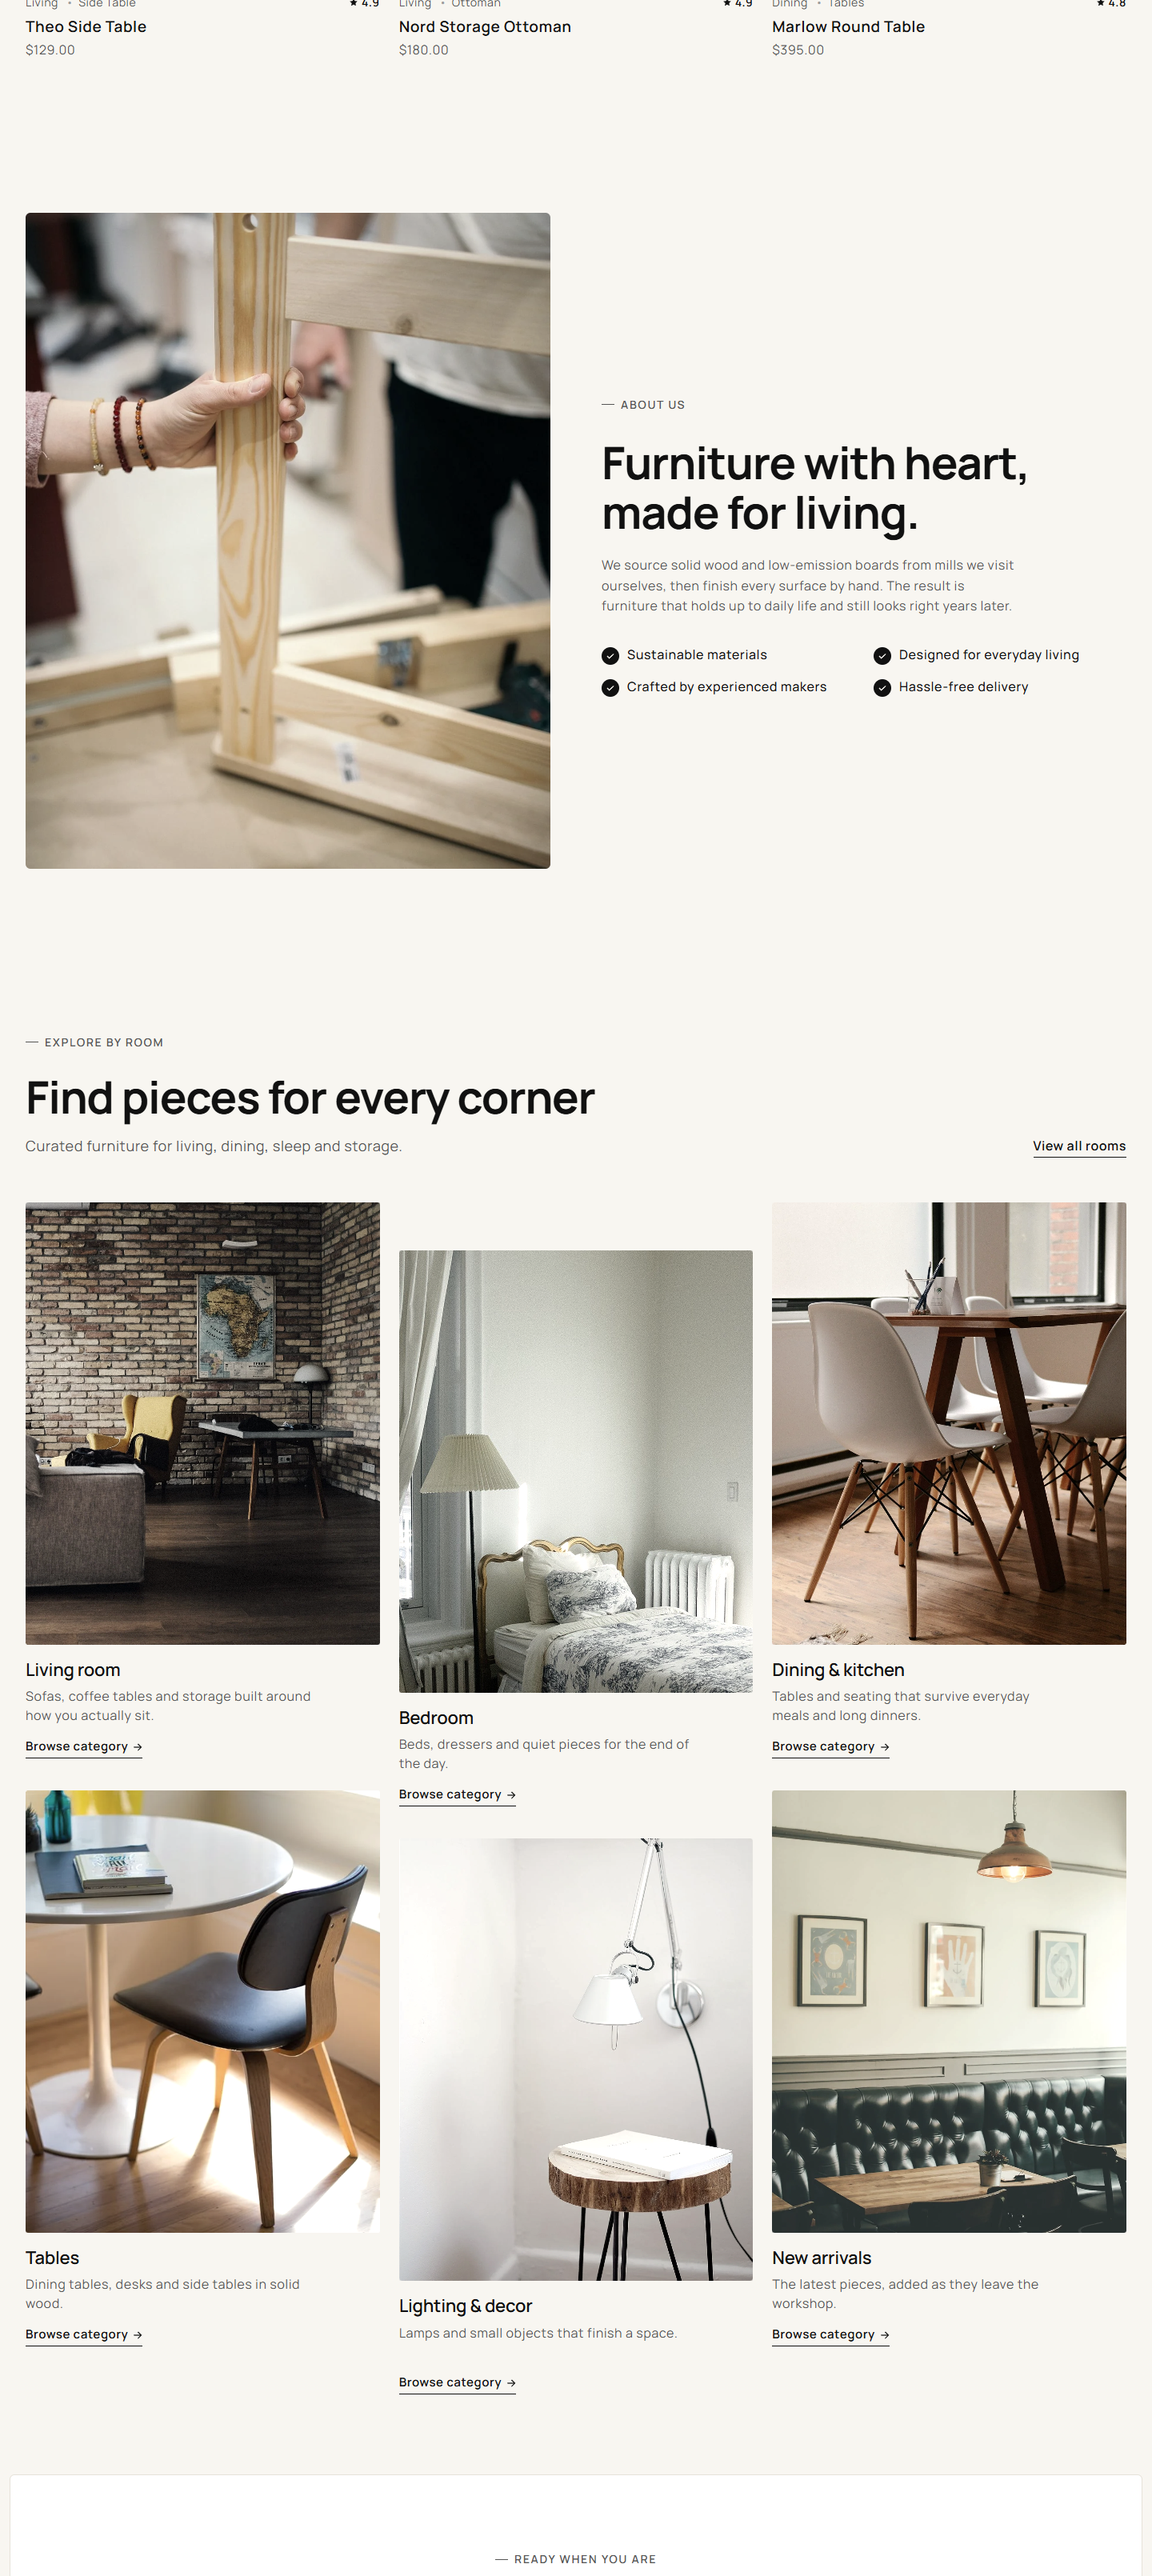
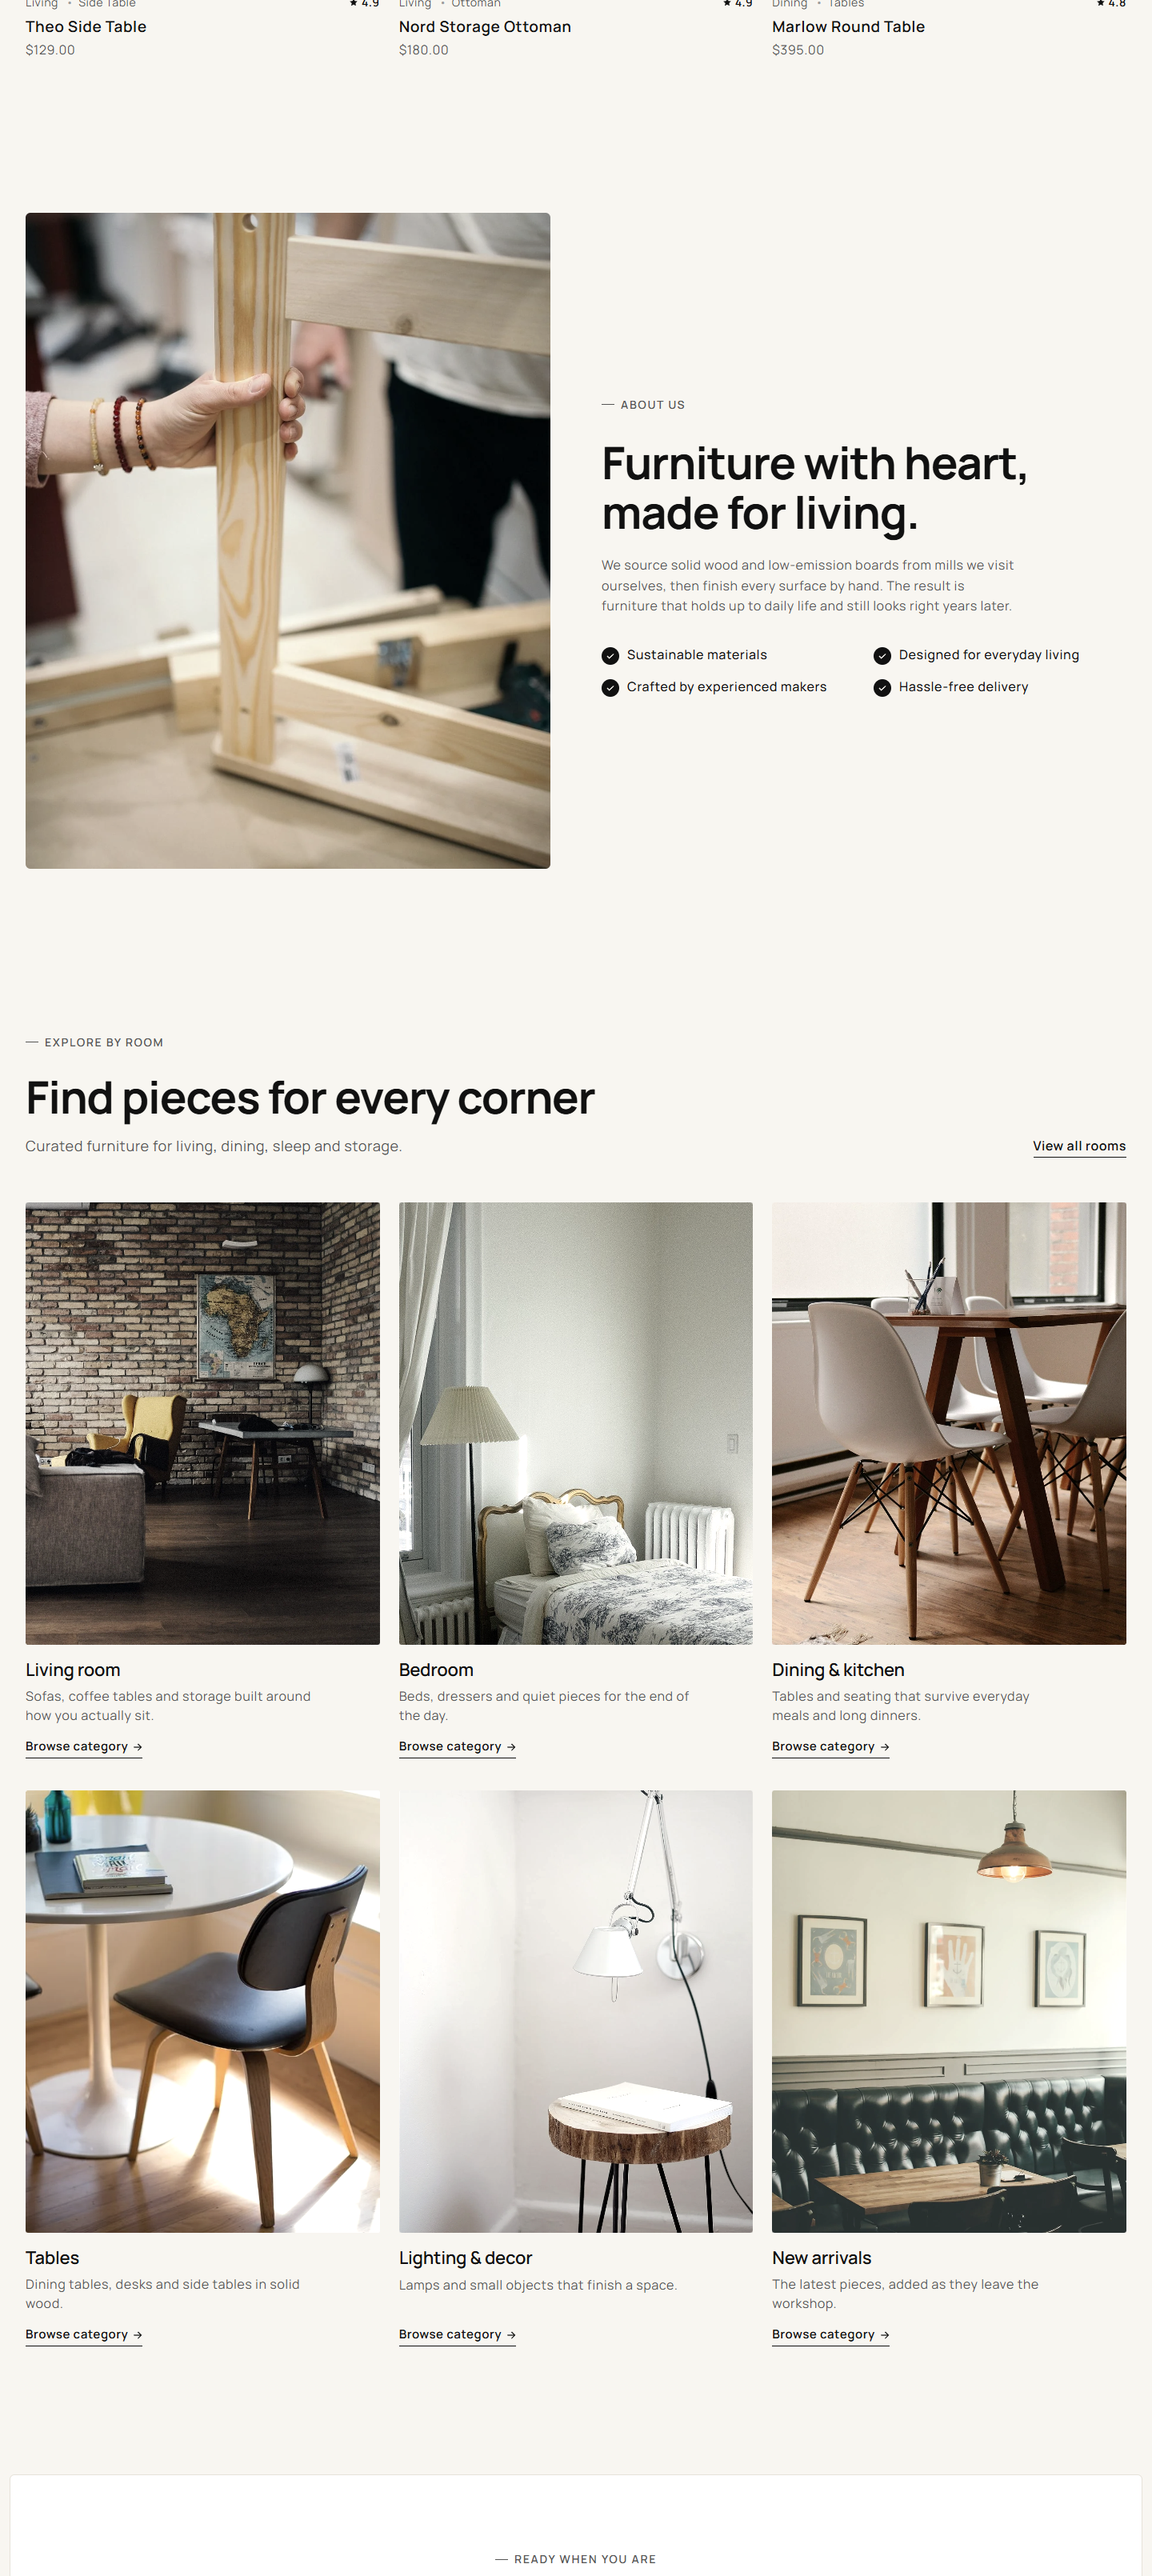
v1.0.7: align category cards and gallery rows; recapture homepage

Changed region(s): [[0.3438, 0.4658, 0.6562, 0.9317]]

diff --git a/submission.html b/submission.html
@@ -58,7 +58,7 @@
 
 <header>
   <a class="brand" href="index.html">FORMA</a>
-  <span class="version">Submission · v1.0.6</span>
+  <span class="version">Submission · v1.0.7</span>
 </header>
 
 <div class="layout">
@@ -79,7 +79,7 @@
 
     <h2 id="meta">Submission fields</h2>
     <table>
-      <tr><th>Theme package</th><td><code>forma-1.0.6.zip</code> (4.97 MB)</td></tr>
+      <tr><th>Theme package</th><td><code>forma-1.0.7.zip</code> (4.97 MB)</td></tr>
       <tr><th>Theme name</th><td>FORMA</td></tr>
       <tr><th>Demo store</th><td><code>https://czshopceshi.myshopify.com</code></td></tr>
       <tr><th>Demo password</th><td><code>123456</code> (development store, password cannot be removed)</td></tr>
@@ -141,7 +141,7 @@
       <li>Best practices score is capped by Shopify's own storefront scripts, not by theme code</li>
     </ul>
 
-    <footer>FORMA 1.0.6 · Dawn 16.1.1 base · <a href="forma.html">Documentation</a></footer>
+    <footer>FORMA 1.0.7 · Dawn 16.1.1 base · <a href="forma.html">Documentation</a></footer>
   </main>
 </div>
 

diff --git a/forma.html b/forma.html
@@ -58,7 +58,7 @@
 
 <header>
   <a class="brand" href="#top">FORMA</a>
-  <span class="version">Docs · v1.0.6</span>
+  <span class="version">Docs · v1.0.7</span>
 </header>
 
 <div class="layout">
@@ -180,6 +180,10 @@
     </table>
 
     <h2 id="changelog">Changelog</h2>
+    <h3>1.0.7</h3>
+    <ul>
+      <li>Room cards and the inspiration gallery drop their column offsets, so both rows sit on one baseline instead of staggering every other card</li>
+    </ul>
     <h3>1.0.6</h3>
     <ul>
       <li>Footer newsletter field now sets its label and submit icon to ink, so the "Email" hint stays readable on the dark footer</li>
